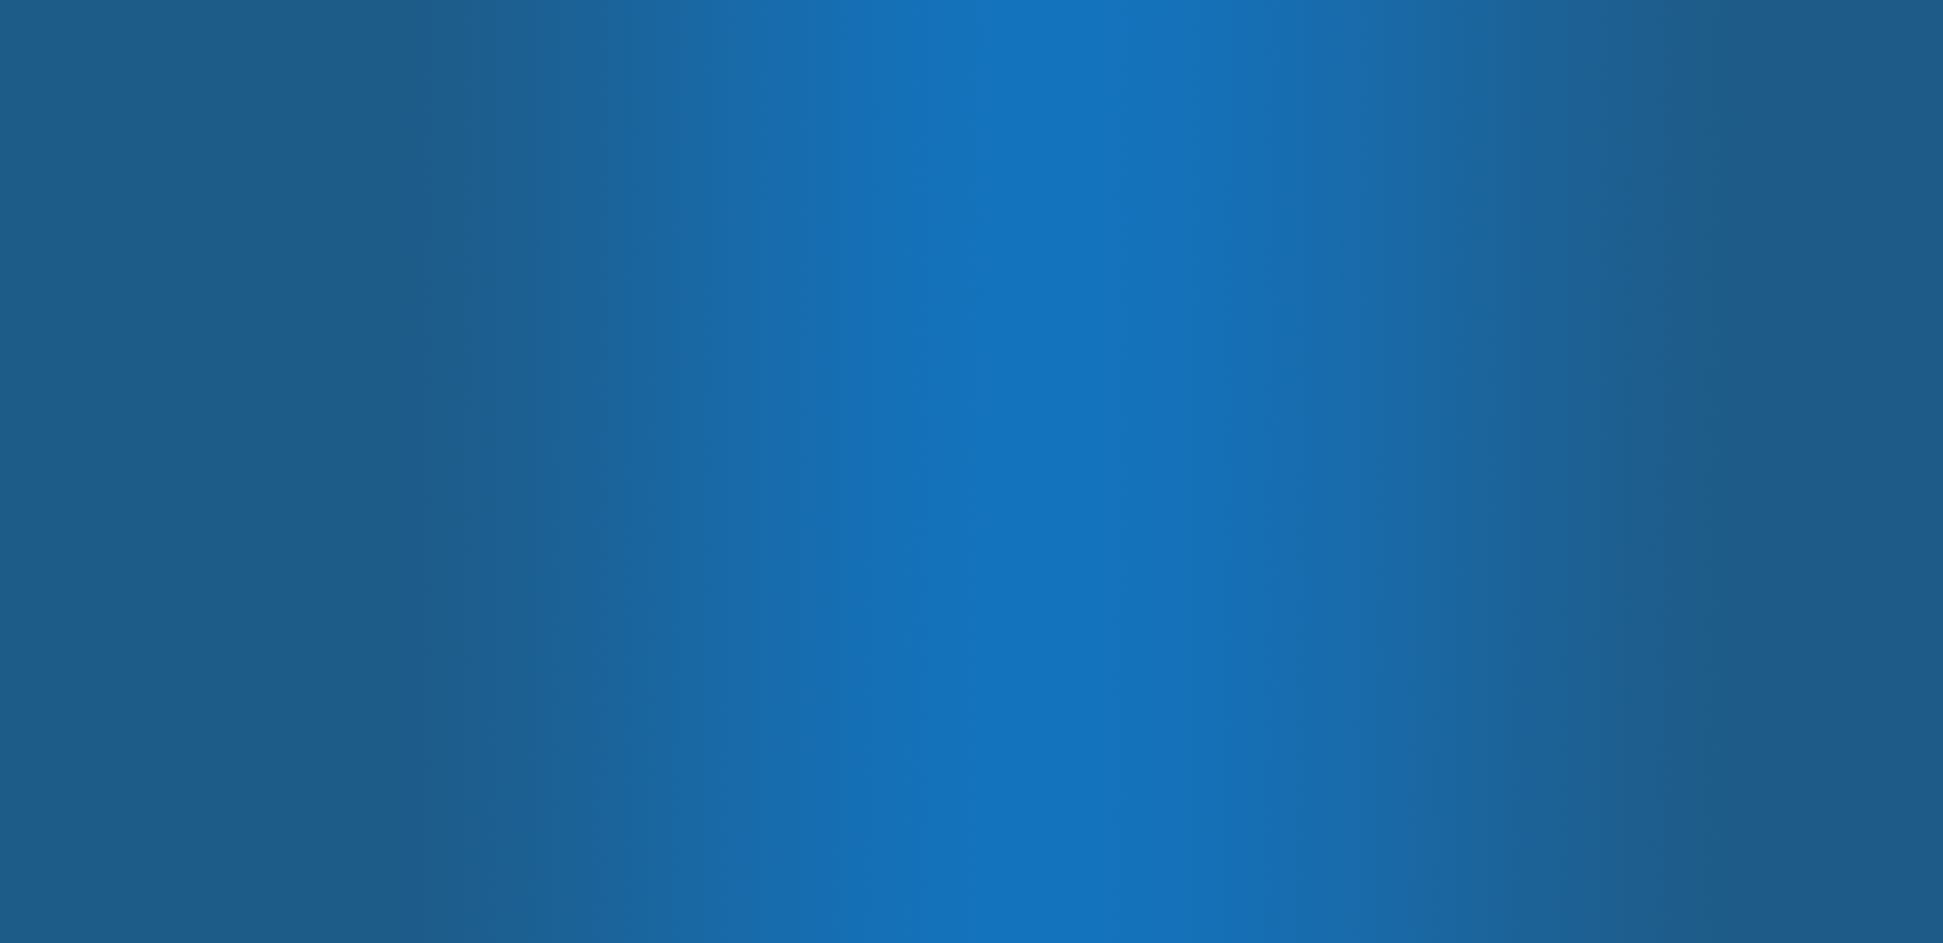
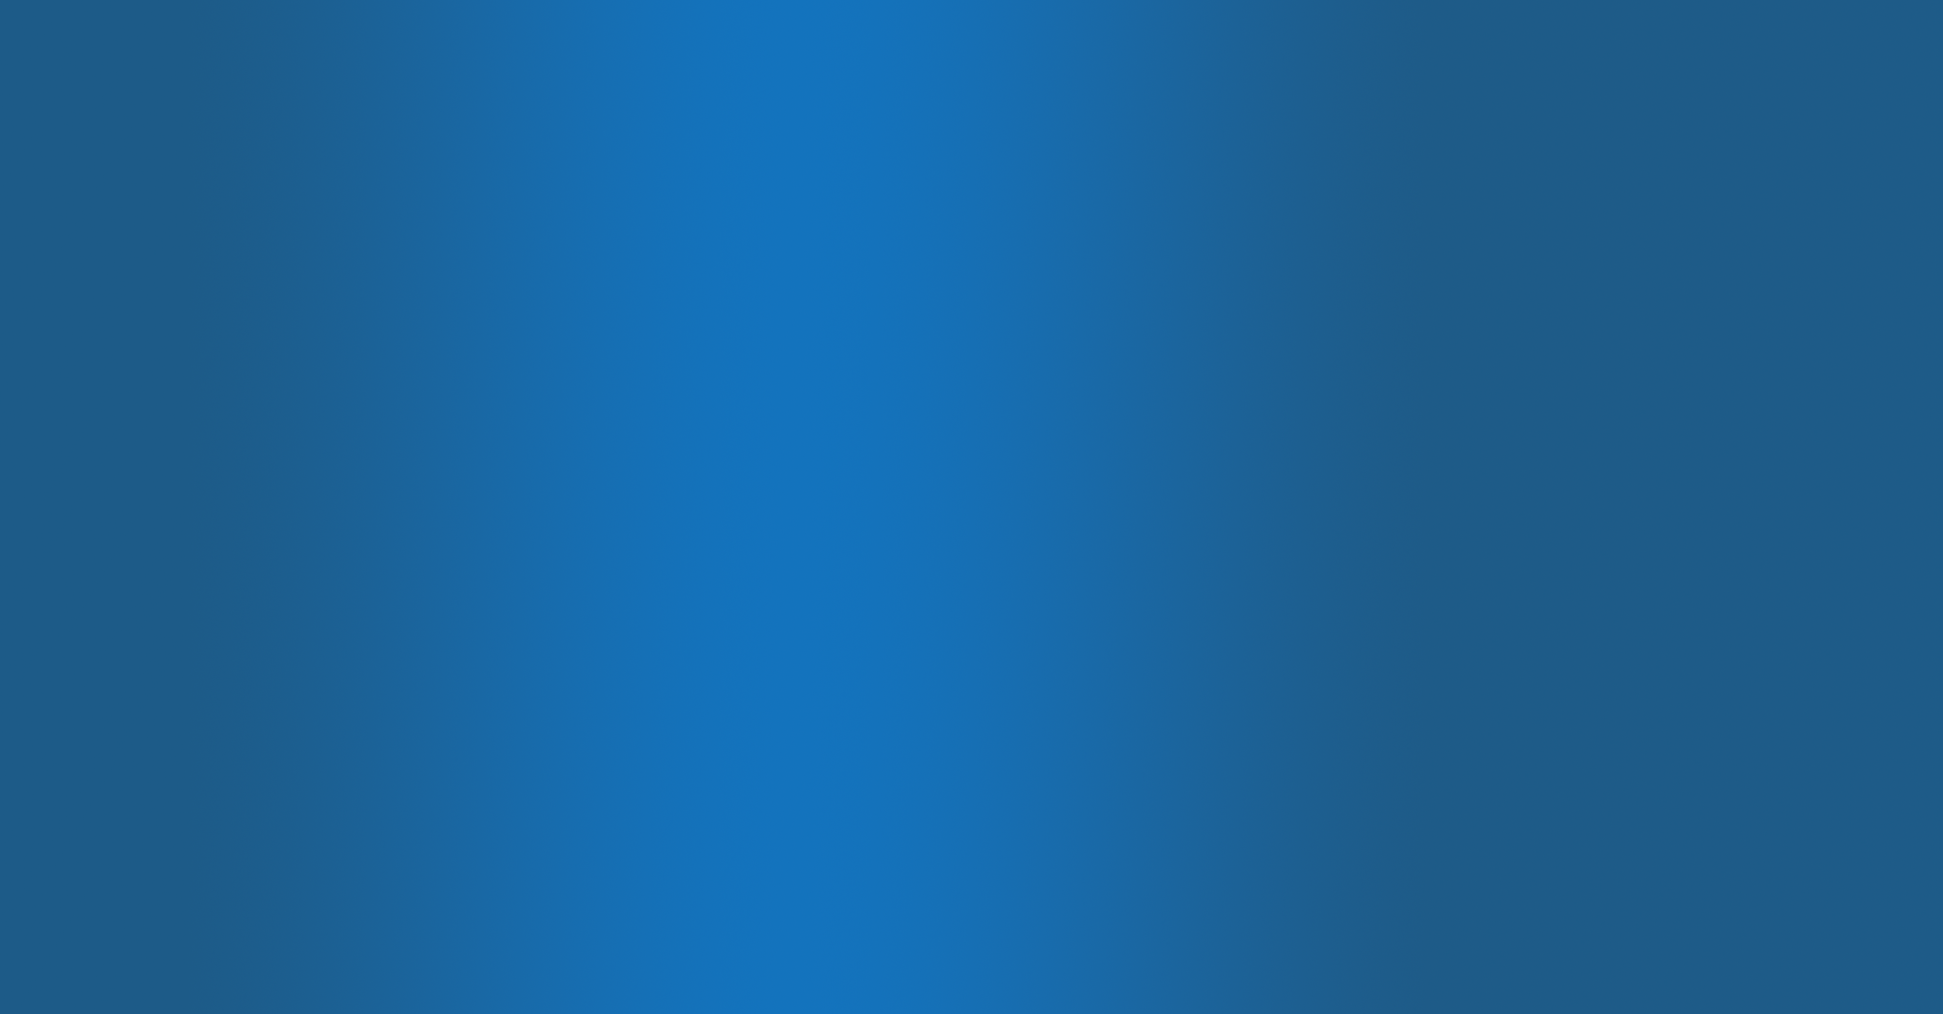
fixed image to login to also look good on ipad

Changed region(s): [[0.5867, 0.0, 0.772, 1.0], [0.2779, 0.0, 0.3397, 1.0]]

diff --git a/src/Login/LoginPage.css b/src/Login/LoginPage.css
@@ -1,10 +1,9 @@
 .loginbg {
     background-image: url("loginbg.png");
-    height: 100%;
     width: 100%;
+    height: 100%;
     background-position: center;
-    background-repeat: no-repeat;
-    position: fixed;
+    position: absolute;
 }
 
 .MedcurityLogo_login {
